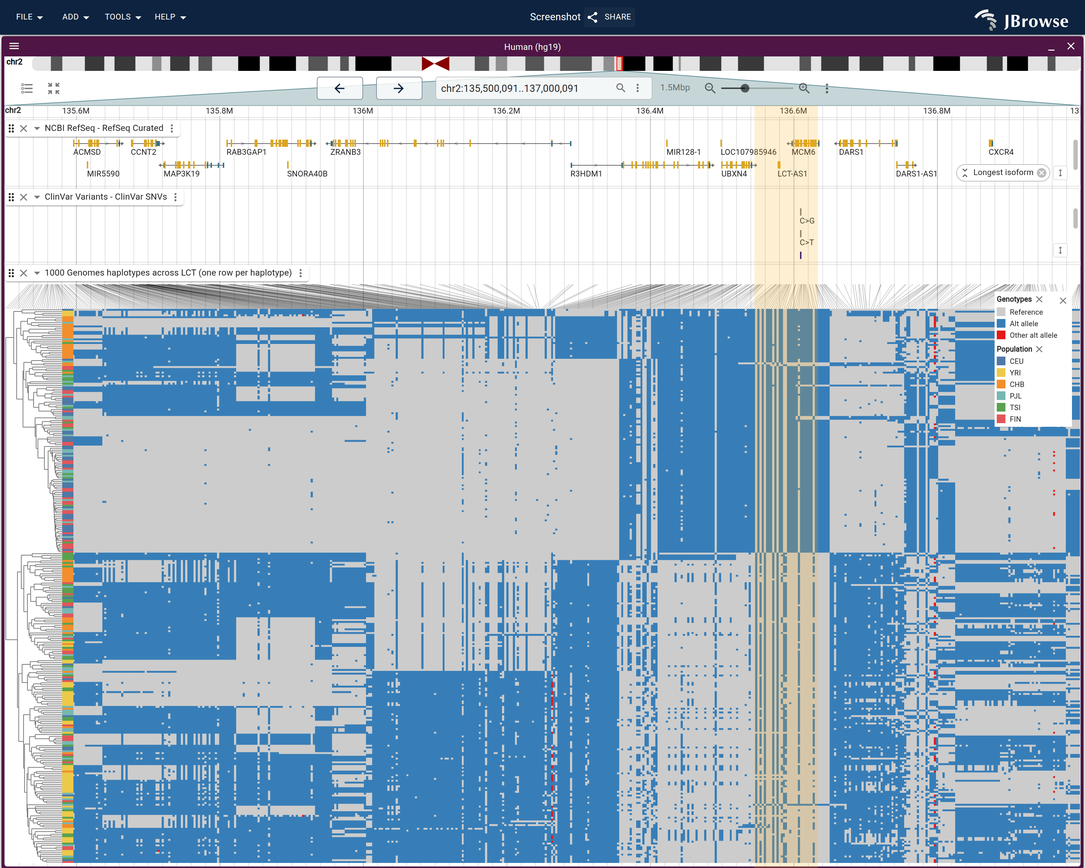
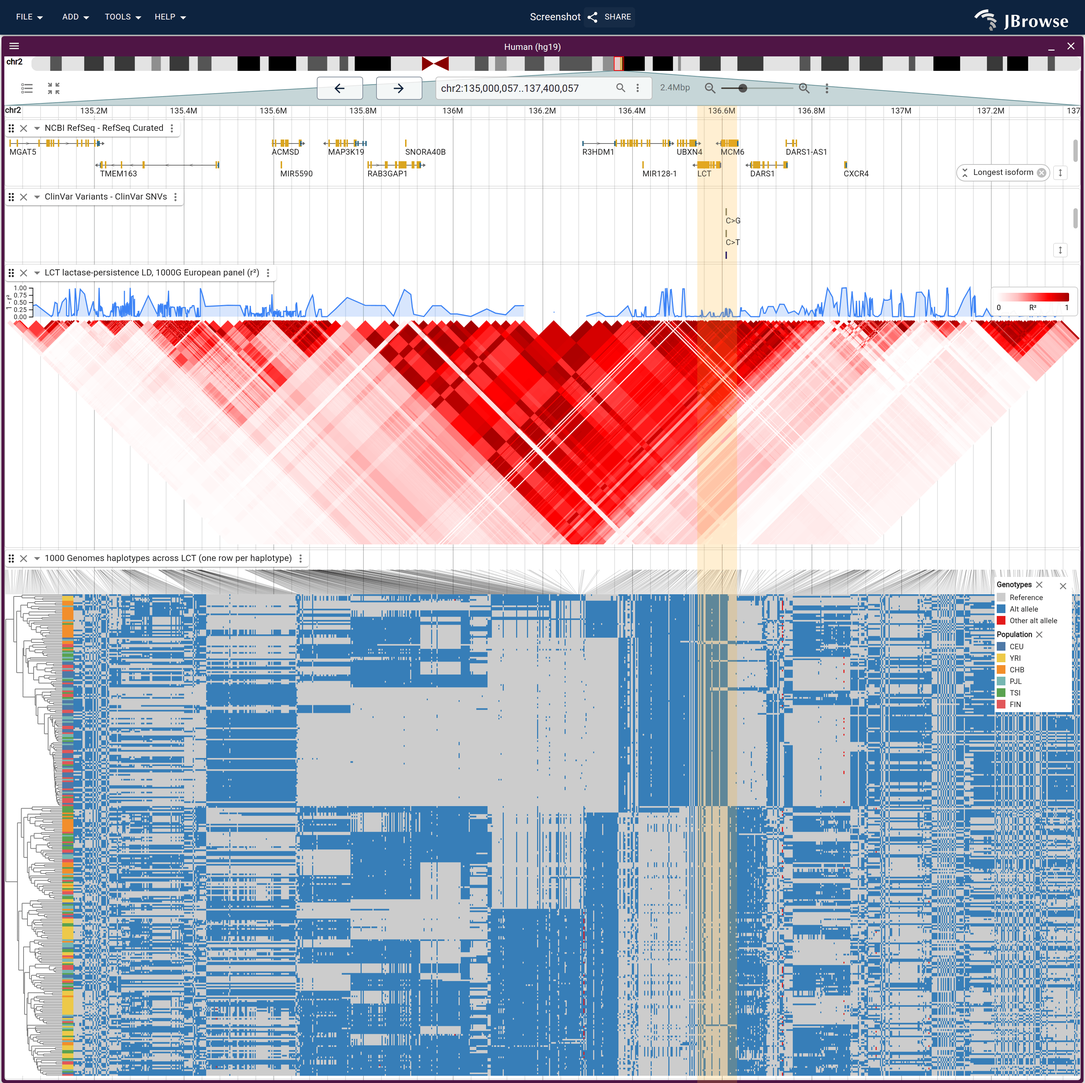
docs(figures): put the LCT LD triangle over the haplotypes it summarises, and delete the standalone
The reviewer asked for the two LCT figures combined and the LD-only one
dropped: ld/lct_lactase was the same locus, gene lane, ClinVar lane and
European panel as ld/lct_haploblock, with the triangle as its only data
lane, so a reader met the statistic and the thing it summarises as two
pictures.

The triangle is now the top data lane of the haploblock view, at 360px
rather than 510 (its subject is the block's shape and its two edges, both
of which survive a shorter band). The window widened 1.5 Mb -> 2.4 Mb:
at the matrix's own window the triangle filled the frame corner to
corner, which is the failure ld_human.md warns about one section up,
since r2 against rs4988235 is still 0.72 at 135.8 Mb and 0.37 at 136.8 Mb
and only reaches 0.06/0.02 at 135.0/137.4. Clustering still runs on the
measured 135.5-137.0 core, where 100% of carriers land in one clade.

variant_track.md and ld_human.md now share the one figure.

Claude-Session: https://claude.ai/code/session_01TcfdgrcPWPN7HSGHfcRjTg

diff --git a/website/src/lib/galleryLinks.generated.ts b/website/src/lib/galleryLinks.generated.ts
@@ -154,7 +154,7 @@ export const specSessionUrls: Record<string, string> = {
   "methylation/hg002_snrpn_combined": "?config=test_data/config_demo.json&session=spec-%7B%22views%22%3A%5B%7B%22type%22%3A%22LinearGenomeView%22%2C%22assembly%22%3A%22hg38%22%2C%22loc%22%3A%22chr15%3A24%2C948%2C000-24%2C962%2C000%22%2C%22tracks%22%3A%5B%7B%22trackId%22%3A%22cpgisland_ucsc_hg38%22%2C%22type%22%3A%22LinearBasicDisplay%22%2C%22height%22%3A40%7D%2C%7B%22trackId%22%3A%22ncbi_refseq_109_hg38_latest%22%2C%22type%22%3A%22LinearBasicDisplay%22%2C%22geneGlyphMode%22%3A%22longestCoding%22%2C%22displayMode%22%3A%22compact%22%2C%22height%22%3A90%7D%2C%7B%22trackId%22%3A%22HG002_snrpn_modkit_hp1%22%2C%22type%22%3A%22MultiLinearWiggleDisplay%22%2C%22defaultRendering%22%3A%22multirowxy%22%2C%22minScore%22%3A0%2C%22maxScore%22%3A100%2C%22height%22%3A90%7D%2C%7B%22trackId%22%3A%22HG002_snrpn_modkit_hp2%22%2C%22type%22%3A%22MultiLinearWiggleDisplay%22%2C%22defaultRendering%22%3A%22multirowxy%22%2C%22minScore%22%3A0%2C%22maxScore%22%3A100%2C%22height%22%3A90%7D%2C%7B%22trackId%22%3A%22HG002_snrpn_5mC_reads%22%2C%22type%22%3A%22LinearAlignmentsDisplay%22%2C%22height%22%3A460%2C%22forceLoad%22%3Atrue%2C%22groupBy%22%3A%7B%22type%22%3A%22tag%22%2C%22tag%22%3A%22HP%22%7D%2C%22colorBy%22%3A%7B%22type%22%3A%22modifications%22%2C%22modifications%22%3A%7B%22fillUnmarked%22%3Atrue%7D%7D%7D%5D%7D%5D%7D&sessionName=Screenshot",
   "ld/lct_pooled_vs_panel": "?config=https%3A%2F%2Fjbrowse.org%2Fucsc%2Fhg19%2Fconfig.json&session=spec-%7B%22sessionTracks%22%3A%5B%7B%22type%22%3A%22VariantTrack%22%2C%22trackId%22%3A%22kgp_lct_pooled%22%2C%22name%22%3A%22All%20panels%20pooled%20(r%C2%B2)%22%2C%22assemblyNames%22%3A%5B%22hg19%22%5D%2C%22adapter%22%3A%7B%22type%22%3A%22VcfTabixAdapter%22%2C%22uri%22%3A%22https%3A%2F%2Fjbrowse.org%2Fdemos%2Fpopgen%2Flct_1kg_chr2_pooled_wide.vcf.gz%22%2C%22fetchSizeLimit%22%3A500000000%7D%2C%22displays%22%3A%5B%7B%22type%22%3A%22LDDisplay%22%2C%22showLDTriangle%22%3Atrue%2C%22showLegend%22%3Atrue%2C%22showRecombination%22%3Atrue%2C%22minorAlleleFrequencyFilter%22%3A0.35%2C%22height%22%3A330%2C%22useGenomicPositions%22%3Atrue%7D%5D%7D%2C%7B%22type%22%3A%22VariantTrack%22%2C%22trackId%22%3A%22kgp_lct_panel%22%2C%22name%22%3A%22One%20population%20panel%20(r%C2%B2)%22%2C%22assemblyNames%22%3A%5B%22hg19%22%5D%2C%22adapter%22%3A%7B%22type%22%3A%22VcfTabixAdapter%22%2C%22uri%22%3A%22https%3A%2F%2Fjbrowse.org%2Fdemos%2Fpopgen%2Flct_1kg_chr2_eur_wide.vcf.gz%22%2C%22fetchSizeLimit%22%3A500000000%7D%2C%22displays%22%3A%5B%7B%22type%22%3A%22LDDisplay%22%2C%22showLDTriangle%22%3Atrue%2C%22showLegend%22%3Atrue%2C%22showRecombination%22%3Atrue%2C%22minorAlleleFrequencyFilter%22%3A0.35%2C%22height%22%3A330%2C%22useGenomicPositions%22%3Atrue%7D%5D%7D%2C%7B%22type%22%3A%22QuantitativeTrack%22%2C%22trackId%22%3A%22kgp_lct_fst%22%2C%22name%22%3A%22Fst%2C%20this%20panel%20vs%20the%20other%201000%20Genomes%20samples%20(Weir%20%26%20Cockerham)%22%2C%22assemblyNames%22%3A%5B%22hg19%22%5D%2C%22adapter%22%3A%7B%22type%22%3A%22BigWigAdapter%22%2C%22bigWigLocation%22%3A%7B%22uri%22%3A%22https%3A%2F%2Fjbrowse.org%2Fdemos%2Fpopgen%2Flct_1kg_chr2_fst_eur_vs_rest.bw%22%2C%22locationType%22%3A%22UriLocation%22%7D%2C%22resolutionMultiplier%22%3A0.001%7D%7D%5D%2C%22views%22%3A%5B%7B%22type%22%3A%22LinearGenomeView%22%2C%22assembly%22%3A%22hg19%22%2C%22loc%22%3A%22chr2%3A134%2C700%2C000-137%2C800%2C000%22%2C%22highlight%22%3A%5B%7B%22refName%22%3A%22chr2%22%2C%22start%22%3A136545410%2C%22end%22%3A136634000%2C%22assemblyName%22%3A%22hg19%22%7D%5D%2C%22tracks%22%3A%5B%7B%22trackId%22%3A%22hg19-ncbiRefSeqCurated%22%2C%22type%22%3A%22LinearBasicDisplay%22%2C%22height%22%3A60%2C%22showOnlyGenes%22%3Atrue%7D%2C%7B%22trackId%22%3A%22kgp_lct_fst%22%2C%22type%22%3A%22LinearWiggleDisplay%22%2C%22defaultRendering%22%3A%22scatter%22%2C%22useBicolor%22%3Afalse%2C%22scatterPointSize%22%3A2%2C%22summaryScoreMode%22%3A%22max%22%2C%22minScore%22%3A0%2C%22maxScore%22%3A0.5%2C%22height%22%3A110%7D%2C%7B%22trackId%22%3A%22kgp_lct_pooled%22%2C%22type%22%3A%22LDDisplay%22%2C%22height%22%3A250%7D%2C%7B%22trackId%22%3A%22kgp_lct_panel%22%2C%22type%22%3A%22LDDisplay%22%2C%22height%22%3A250%7D%5D%7D%5D%7D&sessionName=Screenshot",
   "ld/anopheles_2la": "?config=https%3A%2F%2Fjbrowse.org%2Fucsc%2FanoGam3%2Fconfig.json&session=spec-%7B%22sessionTracks%22%3A%5B%7B%22type%22%3A%22LDTrack%22%2C%22trackId%22%3A%22ag1000g_2l_cmgam%22%2C%22name%22%3A%22Cameroon%2C%20both%20arrangements%20segregating%20(r%C2%B2)%22%2C%22assemblyNames%22%3A%5B%22anoGam3%22%5D%2C%22adapter%22%3A%7B%22type%22%3A%22PlinkLDTabixAdapter%22%2C%22uri%22%3A%22https%3A%2F%2Fjbrowse.org%2Fdemos%2Fpopgen%2Fag1000g_2L_CMgam.ld.gz%22%7D%2C%22displays%22%3A%5B%7B%22type%22%3A%22LDTrackDisplay%22%2C%22ldMetric%22%3A%22r2%22%2C%22useGenomicPositions%22%3Atrue%2C%22showLegend%22%3Atrue%2C%22height%22%3A300%7D%5D%7D%2C%7B%22type%22%3A%22VariantTrack%22%2C%22trackId%22%3A%22ag1000g_2la_karyotype_cmgam%22%2C%22name%22%3A%22Cameroon%2C%20one%20row%20per%20mosquito%22%2C%22assemblyNames%22%3A%5B%22anoGam3%22%5D%2C%22adapter%22%3A%7B%22type%22%3A%22VcfTabixAdapter%22%2C%22uri%22%3A%22https%3A%2F%2Fjbrowse.org%2Fdemos%2Fpopgen%2Fag1000g_2La_CMgam.vcf.gz%22%2C%22samplesTsvLocation%22%3A%7B%22uri%22%3A%22https%3A%2F%2Fjbrowse.org%2Fdemos%2Fpopgen%2Fag1000g_2La_CMgam_samples.tsv%22%7D%7D%2C%22displays%22%3A%5B%7B%22type%22%3A%22LinearMultiSampleVariantDisplay%22%2C%22groupBy%22%3A%22karyotype%22%2C%22colorBy%22%3A%22karyotype%22%2C%22referenceDrawingMode%22%3A%22skip%22%2C%22height%22%3A297%7D%5D%7D%2C%7B%22type%22%3A%22LDTrack%22%2C%22trackId%22%3A%22ag1000g_2l_gagam%22%2C%22name%22%3A%22Gabon%2C%20one%20arrangement%20in%20almost%20every%20mosquito%20(r%C2%B2)%22%2C%22assemblyNames%22%3A%5B%22anoGam3%22%5D%2C%22adapter%22%3A%7B%22type%22%3A%22PlinkLDTabixAdapter%22%2C%22uri%22%3A%22https%3A%2F%2Fjbrowse.org%2Fdemos%2Fpopgen%2Fag1000g_2L_GAgam.ld.gz%22%7D%2C%22displays%22%3A%5B%7B%22type%22%3A%22LDTrackDisplay%22%2C%22ldMetric%22%3A%22r2%22%2C%22useGenomicPositions%22%3Atrue%2C%22showLegend%22%3Atrue%2C%22height%22%3A300%7D%5D%7D%2C%7B%22type%22%3A%22VariantTrack%22%2C%22trackId%22%3A%22ag1000g_2la_karyotype_gagam%22%2C%22name%22%3A%22Gabon%2C%20one%20row%20per%20mosquito%22%2C%22assemblyNames%22%3A%5B%22anoGam3%22%5D%2C%22adapter%22%3A%7B%22type%22%3A%22VcfTabixAdapter%22%2C%22uri%22%3A%22https%3A%2F%2Fjbrowse.org%2Fdemos%2Fpopgen%2Fag1000g_2La_GAgam.vcf.gz%22%2C%22samplesTsvLocation%22%3A%7B%22uri%22%3A%22https%3A%2F%2Fjbrowse.org%2Fdemos%2Fpopgen%2Fag1000g_2La_GAgam_samples.tsv%22%7D%7D%2C%22displays%22%3A%5B%7B%22type%22%3A%22LinearMultiSampleVariantDisplay%22%2C%22groupBy%22%3A%22karyotype%22%2C%22colorBy%22%3A%22karyotype%22%2C%22referenceDrawingMode%22%3A%22skip%22%2C%22height%22%3A240%7D%5D%7D%5D%2C%22views%22%3A%5B%7B%22type%22%3A%22LinearGenomeView%22%2C%22assembly%22%3A%22anoGam3%22%2C%22loc%22%3A%22chr2L%22%2C%22tracks%22%3A%5B%7B%22trackId%22%3A%22ag1000g_2l_cmgam%22%2C%22type%22%3A%22LDTrackDisplay%22%7D%2C%7B%22trackId%22%3A%22ag1000g_2la_karyotype_cmgam%22%2C%22type%22%3A%22LinearMultiSampleVariantDisplay%22%7D%2C%7B%22trackId%22%3A%22ag1000g_2l_gagam%22%2C%22type%22%3A%22LDTrackDisplay%22%7D%2C%7B%22trackId%22%3A%22ag1000g_2la_karyotype_gagam%22%2C%22type%22%3A%22LinearMultiSampleVariantDisplay%22%7D%5D%7D%5D%7D&sessionName=Screenshot",
-  "ld/lct_haploblock": "?config=https%3A%2F%2Fjbrowse.org%2Fucsc%2Fhg19%2Fconfig.json&session=spec-%7B%22sessionTracks%22%3A%5B%7B%22type%22%3A%22VariantTrack%22%2C%22trackId%22%3A%22kgp_lct_ld%22%2C%22name%22%3A%22LCT%20lactase-persistence%20LD%2C%201000G%20European%20panel%20(r%C2%B2)%22%2C%22assemblyNames%22%3A%5B%22hg19%22%5D%2C%22adapter%22%3A%7B%22type%22%3A%22VcfTabixAdapter%22%2C%22uri%22%3A%22https%3A%2F%2Fjbrowse.org%2Fdemos%2Fpopgen%2Flct_1kg_chr2_eur_wide.vcf.gz%22%2C%22fetchSizeLimit%22%3A500000000%7D%2C%22displays%22%3A%5B%7B%22type%22%3A%22LDDisplay%22%2C%22showLDTriangle%22%3Atrue%2C%22showLegend%22%3Atrue%2C%22showRecombination%22%3Atrue%2C%22minorAlleleFrequencyFilter%22%3A0.35%2C%22useGenomicPositions%22%3Atrue%2C%22height%22%3A360%7D%5D%7D%2C%7B%22type%22%3A%22VariantTrack%22%2C%22trackId%22%3A%22kgp_lct_haplotypes%22%2C%22name%22%3A%221000%20Genomes%20haplotypes%20across%20LCT%20(one%20row%20per%20haplotype)%22%2C%22assemblyNames%22%3A%5B%22hg19%22%5D%2C%22adapter%22%3A%7B%22type%22%3A%22VcfTabixAdapter%22%2C%22uri%22%3A%22https%3A%2F%2Fjbrowse.org%2Fdemos%2Fpopgen%2Flct_1kg_chr2_6pop.vcf.gz%22%2C%22samplesTsvLocation%22%3A%7B%22uri%22%3A%22https%3A%2F%2Fjbrowse.org%2Fgenomes%2Fhg19%2F1000g.sorted.csv.gz%22%7D%7D%7D%5D%2C%22views%22%3A%5B%7B%22type%22%3A%22LinearGenomeView%22%2C%22assembly%22%3A%22hg19%22%2C%22loc%22%3A%22chr2%3A135%2C500%2C000-137%2C000%2C000%22%2C%22highlight%22%3A%5B%7B%22refName%22%3A%22chr2%22%2C%22start%22%3A136545410%2C%22end%22%3A136634000%2C%22assemblyName%22%3A%22hg19%22%7D%5D%2C%22tracks%22%3A%5B%7B%22trackId%22%3A%22hg19-ncbiRefSeqCurated%22%2C%22type%22%3A%22LinearBasicDisplay%22%2C%22height%22%3A60%2C%22showOnlyGenes%22%3Atrue%7D%2C%7B%22trackId%22%3A%22hg19-clinvarMain%22%2C%22type%22%3A%22LinearBasicDisplay%22%2C%22height%22%3A70%2C%22jexlFiltersSetting%22%3A%5B%22jexl%3Aget(feature%2C'phenotypeList')%3D%3D'LACTASE%20PERSISTENCE'%22%5D%7D%2C%7B%22trackId%22%3A%22kgp_lct_ld%22%2C%22type%22%3A%22LDDisplay%22%7D%2C%7B%22trackId%22%3A%22kgp_lct_haplotypes%22%2C%22type%22%3A%22LinearMultiSampleVariantMatrixDisplay%22%2C%22height%22%3A700%2C%22lineZoneHeight%22%3A34%2C%22renderingMode%22%3A%22phased%22%2C%22runClustering%22%3Atrue%2C%22clusterRegion%22%3A%22chr2%3A135%2C500%2C000-137%2C000%2C000%22%2C%22colorBy%22%3A%22population%22%2C%22minorAlleleFrequencyFilter%22%3A0.35%7D%5D%7D%5D%7D&sessionName=Screenshot",
+  "ld/lct_haploblock": "?config=https%3A%2F%2Fjbrowse.org%2Fucsc%2Fhg19%2Fconfig.json&session=spec-%7B%22sessionTracks%22%3A%5B%7B%22type%22%3A%22VariantTrack%22%2C%22trackId%22%3A%22kgp_lct_ld%22%2C%22name%22%3A%22LCT%20lactase-persistence%20LD%2C%201000G%20European%20panel%20(r%C2%B2)%22%2C%22assemblyNames%22%3A%5B%22hg19%22%5D%2C%22adapter%22%3A%7B%22type%22%3A%22VcfTabixAdapter%22%2C%22uri%22%3A%22https%3A%2F%2Fjbrowse.org%2Fdemos%2Fpopgen%2Flct_1kg_chr2_eur_wide.vcf.gz%22%2C%22fetchSizeLimit%22%3A500000000%7D%2C%22displays%22%3A%5B%7B%22type%22%3A%22LDDisplay%22%2C%22showLDTriangle%22%3Atrue%2C%22showLegend%22%3Atrue%2C%22showRecombination%22%3Atrue%2C%22minorAlleleFrequencyFilter%22%3A0.35%2C%22useGenomicPositions%22%3Atrue%2C%22height%22%3A360%7D%5D%7D%2C%7B%22type%22%3A%22VariantTrack%22%2C%22trackId%22%3A%22kgp_lct_haplotypes%22%2C%22name%22%3A%221000%20Genomes%20haplotypes%20across%20LCT%20(one%20row%20per%20haplotype)%22%2C%22assemblyNames%22%3A%5B%22hg19%22%5D%2C%22adapter%22%3A%7B%22type%22%3A%22VcfTabixAdapter%22%2C%22uri%22%3A%22https%3A%2F%2Fjbrowse.org%2Fdemos%2Fpopgen%2Flct_1kg_chr2_6pop.vcf.gz%22%2C%22samplesTsvLocation%22%3A%7B%22uri%22%3A%22https%3A%2F%2Fjbrowse.org%2Fgenomes%2Fhg19%2F1000g.sorted.csv.gz%22%7D%7D%7D%5D%2C%22views%22%3A%5B%7B%22type%22%3A%22LinearGenomeView%22%2C%22assembly%22%3A%22hg19%22%2C%22loc%22%3A%22chr2%3A135%2C000%2C000-137%2C400%2C000%22%2C%22highlight%22%3A%5B%7B%22refName%22%3A%22chr2%22%2C%22start%22%3A136545410%2C%22end%22%3A136634000%2C%22assemblyName%22%3A%22hg19%22%7D%5D%2C%22tracks%22%3A%5B%7B%22trackId%22%3A%22hg19-ncbiRefSeqCurated%22%2C%22type%22%3A%22LinearBasicDisplay%22%2C%22height%22%3A60%2C%22showOnlyGenes%22%3Atrue%7D%2C%7B%22trackId%22%3A%22hg19-clinvarMain%22%2C%22type%22%3A%22LinearBasicDisplay%22%2C%22height%22%3A70%2C%22jexlFiltersSetting%22%3A%5B%22jexl%3Aget(feature%2C'phenotypeList')%3D%3D'LACTASE%20PERSISTENCE'%22%5D%7D%2C%7B%22trackId%22%3A%22kgp_lct_ld%22%2C%22type%22%3A%22LDDisplay%22%7D%2C%7B%22trackId%22%3A%22kgp_lct_haplotypes%22%2C%22type%22%3A%22LinearMultiSampleVariantMatrixDisplay%22%2C%22height%22%3A700%2C%22lineZoneHeight%22%3A34%2C%22renderingMode%22%3A%22phased%22%2C%22runClustering%22%3Atrue%2C%22clusterRegion%22%3A%22chr2%3A135%2C500%2C000-137%2C000%2C000%22%2C%22colorBy%22%3A%22population%22%2C%22minorAlleleFrequencyFilter%22%3A0.35%7D%5D%7D%5D%7D&sessionName=Screenshot",
   "popgen/fst_in2lt_2L": "?config=https%3A%2F%2Fjbrowse.org%2Fucsc%2Fdm6%2Fconfig.json&session=spec-%7B%22sessionTracks%22%3A%5B%7B%22type%22%3A%22FeatureTrack%22%2C%22trackId%22%3A%22in2lt_inversion%22%2C%22name%22%3A%22In(2L)t%20inversion%22%2C%22assemblyNames%22%3A%5B%22dm6%22%5D%2C%22adapter%22%3A%7B%22type%22%3A%22FromConfigAdapter%22%2C%22adapterId%22%3A%22in2lt%22%2C%22features%22%3A%5B%7B%22uniqueId%22%3A%22in2lt%22%2C%22refName%22%3A%22chr2L%22%2C%22start%22%3A2225744%2C%22end%22%3A13154180%2C%22name%22%3A%22In(2L)t%22%2C%22type%22%3A%22inversion%22%7D%5D%7D%7D%2C%7B%22type%22%3A%22QuantitativeTrack%22%2C%22trackId%22%3A%22fst_in2lt%22%2C%22name%22%3A%22Fst%20(In(2L)t%20vs%20standard)%22%2C%22assemblyNames%22%3A%5B%22dm6%22%5D%2C%22adapter%22%3A%7B%22type%22%3A%22BigWigAdapter%22%2C%22uri%22%3A%22https%3A%2F%2Fjbrowse.org%2Fdemos%2Fpopgen%2Ffst_In2Lt.bw%22%7D%7D%5D%2C%22views%22%3A%5B%7B%22type%22%3A%22LinearGenomeView%22%2C%22assembly%22%3A%22dm6%22%2C%22displayedRegionNames%22%3A%5B%22chr2L%22%2C%22chr2R%22%2C%22chr3L%22%2C%22chr3R%22%2C%22chr4%22%2C%22chrX%22%5D%2C%22tracks%22%3A%5B%7B%22trackId%22%3A%22in2lt_inversion%22%2C%22type%22%3A%22LinearBasicDisplay%22%2C%22height%22%3A40%7D%2C%7B%22trackId%22%3A%22fst_in2lt%22%2C%22type%22%3A%22LinearWiggleDisplay%22%2C%22height%22%3A340%7D%5D%7D%5D%7D&sessionName=Screenshot",
   "popgen/tajimad_cyp6g1": "?config=https%3A%2F%2Fjbrowse.org%2Fucsc%2Fdm6%2Fconfig.json&session=spec-%7B%22sessionTracks%22%3A%5B%7B%22type%22%3A%22QuantitativeTrack%22%2C%22trackId%22%3A%22tajd_all%22%2C%22name%22%3A%22Tajima's%20D%20(whole%20panel)%22%2C%22assemblyNames%22%3A%5B%22dm6%22%5D%2C%22adapter%22%3A%7B%22type%22%3A%22BigWigAdapter%22%2C%22uri%22%3A%22https%3A%2F%2Fjbrowse.org%2Fdemos%2Fpopgen%2Ftajimad_all.bw%22%7D%7D%2C%7B%22type%22%3A%22QuantitativeTrack%22%2C%22trackId%22%3A%22pi_all%22%2C%22name%22%3A%22%CF%80%20(whole%20panel)%22%2C%22assemblyNames%22%3A%5B%22dm6%22%5D%2C%22adapter%22%3A%7B%22type%22%3A%22BigWigAdapter%22%2C%22uri%22%3A%22https%3A%2F%2Fjbrowse.org%2Fdemos%2Fpopgen%2Fpi_all.bw%22%7D%7D%5D%2C%22views%22%3A%5B%7B%22type%22%3A%22LinearGenomeView%22%2C%22assembly%22%3A%22dm6%22%2C%22loc%22%3A%22chr2R%3A12%2C000%2C000-12%2C400%2C000%22%2C%22highlight%22%3A%5B%7B%22refName%22%3A%22chr2R%22%2C%22start%22%3A12130000%2C%22end%22%3A12200000%2C%22assemblyName%22%3A%22dm6%22%2C%22label%22%3A%22Cyp6g1%22%7D%5D%2C%22tracks%22%3A%5B%7B%22trackId%22%3A%22tajd_all%22%2C%22type%22%3A%22LinearWiggleDisplay%22%2C%22height%22%3A200%7D%2C%7B%22trackId%22%3A%22pi_all%22%2C%22type%22%3A%22LinearWiggleDisplay%22%2C%22height%22%3A180%7D%2C%7B%22trackId%22%3A%22dm6-ncbiRefSeqCurated%22%2C%22type%22%3A%22LinearBasicDisplay%22%2C%22height%22%3A150%2C%22showOnlyGenes%22%3Atrue%2C%22featureHighlights%22%3A%5B%7B%22refName%22%3A%22chr2R%22%2C%22name%22%3A%22Cyp6g1%22%7D%2C%7B%22refName%22%3A%22chr2R%22%2C%22name%22%3A%22Cyp6g2%22%7D%5D%7D%5D%7D%5D%7D&sessionName=Screenshot",
   "popgen/in2lt_per_sample": "?config=https%3A%2F%2Fjbrowse.org%2Fucsc%2Fdm6%2Fconfig.json&session=spec-%7B%22sessionTracks%22%3A%5B%7B%22type%22%3A%22FeatureTrack%22%2C%22trackId%22%3A%22in2lt_inversion%22%2C%22name%22%3A%22In(2L)t%20inversion%22%2C%22assemblyNames%22%3A%5B%22dm6%22%5D%2C%22adapter%22%3A%7B%22type%22%3A%22FromConfigAdapter%22%2C%22adapterId%22%3A%22in2lt%22%2C%22features%22%3A%5B%7B%22uniqueId%22%3A%22in2lt%22%2C%22refName%22%3A%22chr2L%22%2C%22start%22%3A2225744%2C%22end%22%3A13154180%2C%22name%22%3A%22In(2L)t%22%2C%22type%22%3A%22inversion%22%7D%5D%7D%7D%2C%7B%22type%22%3A%22QuantitativeTrack%22%2C%22trackId%22%3A%22fst_in2lt%22%2C%22name%22%3A%22Fst%20(In(2L)t%20vs%20standard)%22%2C%22assemblyNames%22%3A%5B%22dm6%22%5D%2C%22adapter%22%3A%7B%22type%22%3A%22BigWigAdapter%22%2C%22uri%22%3A%22https%3A%2F%2Fjbrowse.org%2Fdemos%2Fpopgen%2Ffst_In2Lt.bw%22%7D%7D%2C%7B%22type%22%3A%22VariantTrack%22%2C%22trackId%22%3A%22dgrp_In2Lt_sv%22%2C%22name%22%3A%22In(2L)t%20genotyped%20across%20DGRP%20lines%22%2C%22assemblyNames%22%3A%5B%22dm6%22%5D%2C%22adapter%22%3A%7B%22type%22%3A%22VcfTabixAdapter%22%2C%22uri%22%3A%22https%3A%2F%2Fjbrowse.org%2Fdemos%2Fpopgen%2Fdgrp_In2Lt_sv.vcf.gz%22%2C%22samplesTsvLocation%22%3A%7B%22uri%22%3A%22https%3A%2F%2Fjbrowse.org%2Fdemos%2Fpopgen%2Fdgrp_In2Lt_samples.tsv%22%7D%7D%2C%22displays%22%3A%5B%7B%22type%22%3A%22LinearMultiSampleVariantDisplay%22%2C%22groupBy%22%3A%22karyotype%22%2C%22colorBy%22%3A%22karyotype%22%2C%22featureColor%22%3A%22%23d95f02%22%2C%22rowHeight%22%3A2%2C%22height%22%3A360%7D%5D%7D%5D%2C%22views%22%3A%5B%7B%22type%22%3A%22LinearGenomeView%22%2C%22assembly%22%3A%22dm6%22%2C%22loc%22%3A%22chr2L%22%2C%22tracks%22%3A%5B%7B%22trackId%22%3A%22in2lt_inversion%22%2C%22type%22%3A%22LinearBasicDisplay%22%2C%22height%22%3A40%7D%2C%7B%22trackId%22%3A%22fst_in2lt%22%2C%22type%22%3A%22LinearWiggleDisplay%22%2C%22height%22%3A160%7D%2C%7B%22trackId%22%3A%22dgrp_In2Lt_sv%22%2C%22type%22%3A%22LinearMultiSampleVariantDisplay%22%7D%5D%7D%5D%7D&sessionName=Screenshot",

diff --git a/website/scripts/specs/ld.ts b/website/scripts/specs/ld.ts
@@ -49,7 +49,7 @@ const HG19_HUB = `?config=${encodeURIComponent('https://jbrowse.org/ucsc/hg19/co
 // LCT / MCM6 lactase-persistence locus. Recent positive selection swept a long
 // haplotype to high frequency in dairying populations, so a large block of SNPs
 // around LCT is inherited together — a long stretch of high r².
-const lctTrack = (name: string) => ({
+const lctTrack = (name: string, height = 510) => ({
   type: 'VariantTrack',
   trackId: 'kgp_lct_ld',
   name,
@@ -74,9 +74,10 @@ const lctTrack = (name: string) => ({
       // read as running off the left edge no matter how far the window zoomed
       // out. On, its edges land under the coordinates they are at.
       useGenomicPositions: true,
-      // 460 for the triangle (unchanged) + 50 for the recombination zone
-      // showRecombination adds above it
-      height: 510,
+      // 460 for the triangle + 50 for the recombination zone showRecombination
+      // adds above it, when the triangle is the whole figure. The haploblock
+      // figure stacks it over an 800px matrix and passes less.
+      height,
     },
   ],
 })
@@ -584,59 +585,15 @@ export const ldSpecs: ScreenshotSpec[] = [
   // while the legend still said D'. PlinkLDTabixAdapter.test.ts asserts
   // `dprimeIdx` on exactly that file, so nothing is lost by deleting the
   // picture.
-  {
-    mode: 'url',
-    name: 'ld/lct_lactase',
-    url: `${HG19_HUB}&session=${encodeSessionSpec({
-      sessionTracks: [
-        lctTrack('LCT lactase-persistence LD, 1000G European panel (r²)'),
-      ],
-      views: [
-        {
-          type: 'LinearGenomeView',
-          assembly: 'hg19',
-          loc: LCT_LOC,
-          highlight: LCT_HIGHLIGHT,
-          tracks: [
-            {
-              trackId: 'hg19-ncbiRefSeqCurated',
-              type: 'LinearBasicDisplay',
-              height: 60,
-              showOnlyGenes: true,
-            },
-            // The causal variant, from a source independent of the genotypes
-            // the r² is computed from: ClinVar's LACTASE PERSISTENCE records at
-            // chr2:136,608,642–136,608,745 — rs4988235, the -13910 C>T enhancer
-            // variant in an MCM6 intron that keeps LCT transcribed into
-            // adulthood. ClinVar has ~79 records in this window, nearly all
-            // unrelated VUS, so filter to the lactase phenotype: one labeled
-            // variant anchoring the block rather than a wall of clinical noise.
-            {
-              trackId: 'hg19-clinvarMain',
-              type: 'LinearBasicDisplay',
-              height: 70,
-              jexlFiltersSetting: [
-                "jexl:get(feature,'phenotypeList')=='LACTASE PERSISTENCE'",
-              ],
-            },
-            { trackId: 'kgp_lct_ld', type: 'LDDisplay' },
-          ],
-        },
-      ],
-    })}&sessionName=Screenshot`,
-    readyText: 'variants shown',
-    // 3.1 Mb of genotypes rather than 1.65, so the fetch and the r² are both
-    // larger; the probe render of this window took well under this.
-    readyTimeout: 300000,
-    // gene(60) + clinvar(70) + ld(510, incl. the recombination zone) + 3
-    // headers + ruler/overview, with room for the triangle to reach its base
-    viewportHeight: 950,
-    settleMs: 14000,
-    // No callout. It carried "One block, inherited together" at a hand-measured
-    // x/y, asserting what the old slice could not show. The block now has two
-    // visible edges, the highlight names the gene and the ClinVar tick names the
-    // causal variant.
-  },
+  // ld/lct_lactase was here and is DELETED (reviewer: "please combine this with
+  // linkage disequilibrium track in same view. then consider deleting the
+  // linkage disequilibrium track standalone since combined will be better"). It
+  // was the same locus, the same gene and ClinVar lanes and the same European
+  // panel as the figure below, with the triangle as the only data lane — so a
+  // reader met the statistic and the thing it summarises as two pictures and
+  // had to carry the locus between them. The triangle is now the top lane of
+  // ld/lct_haploblock, over the haplotypes it is computed from.
+  //
   // THE HAPLOBLOCK FIGURE, and the reason it exists: an LD triangle is a
   // pairwise matrix rotated 45 degrees, so its VERTICAL axis is the distance
   // between the two variants being compared rather than any value. Nothing on
@@ -680,6 +637,11 @@ export const ldSpecs: ScreenshotSpec[] = [
     name: 'ld/lct_haploblock',
     url: `${HG19_HUB}&session=${encodeSessionSpec({
       sessionTracks: [
+        // The statistic, over the haplotypes it is computed from. 360 rather
+        // than the standalone figure's 510: the triangle's subject is the shape
+        // of the block and its two edges, both of which survive a shorter
+        // band, and the matrix under it is what the figure is for.
+        lctTrack('LCT lactase-persistence LD, 1000G European panel (r²)', 360),
         {
           type: 'VariantTrack',
           trackId: 'kgp_lct_haplotypes',
@@ -701,13 +663,17 @@ export const ldSpecs: ScreenshotSpec[] = [
         {
           type: 'LinearGenomeView',
           assembly: 'hg19',
-          // 1.5 Mb: the block plus enough flank on both sides that the slab has
-          // somewhere to stop. Matrix mode gives every variant an equal-width
-          // column regardless of how the variants bunch genomically, so the
-          // window is chosen for what it contains rather than to keep columns
-          // above a pixel — at the triangles' 3.1 Mb it would be 1470 columns
-          // and sub-pixel again.
-          loc: 'chr2:135,500,000-137,000,000',
+          // 2.4 Mb: the block plus enough flank on both sides that the slab has
+          // somewhere to stop, AND that the triangle now stacked over it has
+          // two visible edges. At the matrix's own 1.5 Mb the triangle filled
+          // the frame corner to corner — the exact failure the tutorial warns
+          // about one section up, since r² against rs4988235 is still 0.72 at
+          // 135.8 Mb and 0.37 at 136.8 Mb (build_lct_ld.sh) and only reaches
+          // 0.06 / 0.02 at 135.0 / 137.4 Mb. Matrix mode gives every variant an
+          // equal-width column regardless of how the variants bunch
+          // genomically, so the cost is columns: ~1140 here against ~710, still
+          // about a pixel apiece and the slab is a horizontal band either way.
+          loc: 'chr2:135,000,000-137,400,000',
           highlight: LCT_HIGHLIGHT,
           tracks: [
             {
@@ -727,22 +693,28 @@ export const ldSpecs: ScreenshotSpec[] = [
                 "jexl:get(feature,'phenotypeList')=='LACTASE PERSISTENCE'",
               ],
             },
+            // The triangle directly above the matrix, on one x axis: a column
+            // of the matrix and a corner of the triangle are the same variant,
+            // and the block's edges land at the same coordinates in both.
+            { trackId: 'kgp_lct_ld', type: 'LDDisplay' },
             {
               trackId: 'kgp_lct_haplotypes',
               type: 'LinearMultiSampleVariantMatrixDisplay',
-              height: 800,
+              height: 700,
               lineZoneHeight: 34,
               // one row per haplotype rather than per sample. Phased is the
               // point: a haplotype is what travels as one piece, and a diploid
               // row would average a carrier chromosome with a non-carrier one.
               renderingMode: 'phased',
               runClustering: true,
-              // the same window the view shows. dog10k-igf1-haplotype clusters
-              // on a narrower core than it draws, which is right when the
-              // separating sites are concentrated; here they are not —
-              // clustering on the 135.7-136.15 Mb sub-window where per-site
-              // agreement separates carriers best puts only 48% of carriers in
-              // the top clade, against 100% for the full window.
+              // 135.5-137.0, the window this figure used to draw as well as
+              // cluster on, kept as the clustering core when the drawn window
+              // widened to 2.4 Mb: it is the region the 100%-of-carriers-in-one-
+              // clade result was measured on. Clustering on a narrower core than
+              // is drawn is the dog10k-igf1-haplotype pattern; what does not
+              // work here is going narrower still — the 135.7-136.15 Mb
+              // sub-window where per-site agreement separates carriers best puts
+              // only 48% of carriers in the top clade.
               clusterRegion: 'chr2:135,500,000-137,000,000',
               colorBy: 'population',
               // the common, block-tagging variants. Unfiltered, this window is
@@ -756,11 +728,13 @@ export const ldSpecs: ScreenshotSpec[] = [
     // the dendrogram only renders once the clustering RPC lands, so this waits
     // on real completion rather than on a duration guess
     readySelector: '[data-testid="tree_sidebar_dendrogram"]',
-    readyTimeout: 120000,
-    settleMs: 5000,
-    // gene(60) + clinvar(70) + the 800px matrix, their headers and the ruler.
-    // Confirmed by a capture: the run reports neither clipped content nor slack
-    // below the last row at this height.
-    viewportHeight: 1200,
+    // the r² is computed live off 1.5 Mb of the European panel, which is the
+    // slow half now — the standalone triangle figure allowed 300 s for a wider
+    // window
+    readyTimeout: 300000,
+    settleMs: 8000,
+    // gene(60) + clinvar(70) + the 360px LD band + the 700px matrix, their
+    // headers and the ruler. Sized from the run's own clipped/blank report.
+    viewportHeight: 1498,
   },
 ]

diff --git a/website/docs/tutorials/ld_human.md b/website/docs/tutorials/ld_human.md
@@ -80,13 +80,13 @@ the distance between the two variants being compared rather than any value.
 Nothing on screen says so, and no other track works that way.
 
 The haplotypes it summarises need no such explaining, and the same VCF draws
-them. A
+them in the same view, one lane below the triangle. A
 [`LinearMultiSampleVariantMatrixDisplay`](/docs/config/linearmultisamplevariantmatrixdisplay/)
 in
 [`renderingMode: 'phased'`](/docs/config/linearmultisamplevariantmatrixdisplay/#slot-renderingmode)
 gives one row per chromosome and one column per variant.
 
-<Figure src="/img/ld/lct_haploblock.png" caption="1000 Genomes haplotypes at LCT/MCM6, one row per chromosome, clustered rather than left in file order. The pale slab across the upper rows is one haplotype carried by many chromosomes, ending either side of the highlighted gene where the mosaic resumes. Sidebar stripe is population; above it, RefSeq genes and the ClinVar lactase-persistence records."/>
+<Figure src="/img/ld/lct_haploblock.png" caption="The triangle and the haplotypes it summarises, in one view over the same window. Below the triangle, 1000 Genomes haplotypes at LCT/MCM6, one row per chromosome, clustered rather than left in file order: the pale slab across the upper rows is one haplotype carried by many chromosomes, ending either side of the highlighted gene where the mosaic resumes, at the coordinates the block's edges sit at above. Sidebar stripe is population; on top, RefSeq genes and the ClinVar lactase-persistence records."/>
 
 **Ordering is what makes a block visible, not colour and not row count.** Left
 in file order the same matrix is a plaid at any size, because a block is a set

diff --git a/website/docs/config_guides/variant_track.md b/website/docs/config_guides/variant_track.md
@@ -272,7 +272,7 @@ skips the coloring.
 JBrowse renders a triangular heatmap of pairwise r² (or D') between variants,
 from either of two sources.
 
-<Figure src="/img/ld/lct_lactase.png" caption="An LD triangle at the human lactase locus (LCT/MCM6), computed live from phased 1000 Genomes genotypes. Red means a pair of SNPs is almost always inherited together; the solid block over the highlighted gene is one long haplotype, with LD decaying into the lighter flanks. Point an LD track at a single population panel: r² is a correlation across the samples in the file, so a pooled multi-population callset averages the block away."/>
+<Figure src="/img/ld/lct_haploblock.png" caption="An LD triangle at the human lactase locus (LCT/MCM6), computed live from phased 1000 Genomes genotypes, over the haplotypes it summarises. Red means a pair of SNPs is almost always inherited together, so the block over the highlighted gene is one long haplotype with LD decaying into the paler flanks; the matrix below is one row per chromosome, and the pale slab is the same haplotype in the rows that carry it. Point an LD track at a single population panel: r² is a correlation across the samples in the file, so a pooled multi-population callset averages the block away."/>
 
 **Computed from a VCF.** Add an `LDDisplay` to a normal `VariantTrack`. No extra
 files are needed, and because the raw genotypes are present, the filtering

diff --git a/website/release_announcement_drafts/v5.0.0.md b/website/release_announcement_drafts/v5.0.0.md
@@ -135,7 +135,7 @@ genotype panel give you a LocusZoom-style view. Right-clicking a variant offers
 LD can also be computed live from phased genotypes and drawn as a triangle,
 either r² or D'.
 
-![LD at the human lactase locus computed live from phased 1000 Genomes genotypes, with ClinVar marking rs4988235 and the recombination track above.](../static/img/ld/lct_lactase.png)
+![LD at the human lactase locus computed live from phased 1000 Genomes genotypes, over the clustered haplotypes it summarises, with ClinVar marking rs4988235 and the recombination track above.](../static/img/ld/lct_haploblock.png)
 
 ## Synteny, dotplots, and structural variants
 
